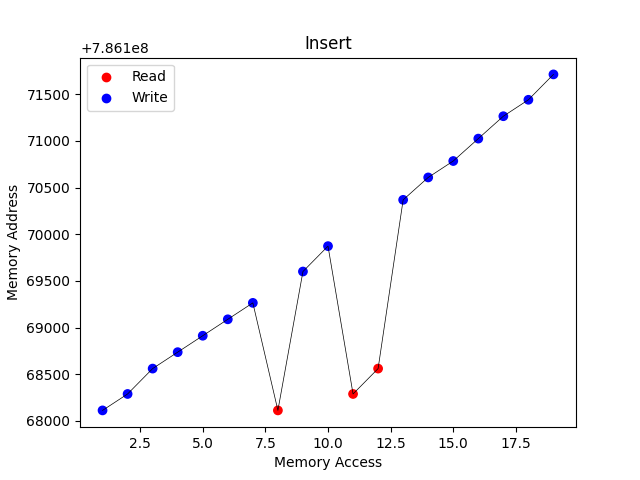
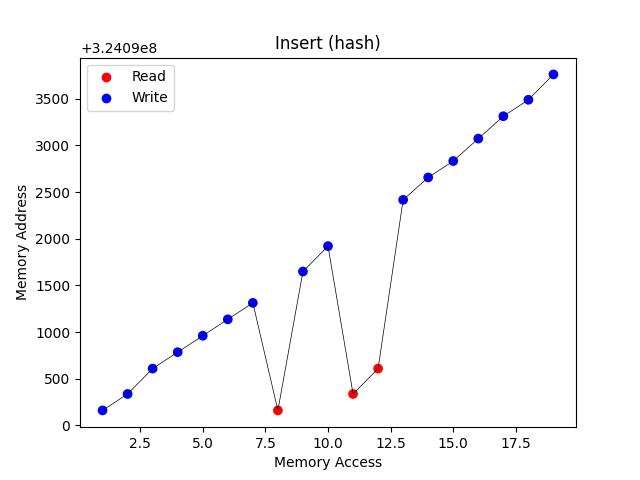
finished

diff --git a/p3/src/main.c b/p3/src/main.c
@@ -3,6 +3,8 @@
 #include "hash-table.h"
 #include "memory-log.h"
 #include "parser.h"
+#include "usage.h"
+#include <stdio.h>
 #include <stdlib.h>
 #include <string.h>
 
@@ -43,6 +45,14 @@ int main(int argc, char **argv) {
     error_assert((params.mem_file_name != NULL), "Missing log file.");
     init_memory_log(params.mem_file_name);
     set_next_log_phase();
+  }
+
+  double start_time;
+
+  // process usage
+  if (params.use_proc_usage) {
+    struct rusage start_usage = set_usage();
+    start_time = get_proc_time(&start_usage);
   }
 
   if (strcmp(params.struct_name, "tree") == 0) {
@@ -181,6 +191,24 @@ int main(int argc, char **argv) {
 
   closed = fclose(output_file);
   error_assert((closed == 0), "Failed to close the output file");
+
+  // process usage
+  if (params.use_proc_usage) {
+    error_assert((params.usage_file_name != NULL), "Missing usage file.");
+
+    struct rusage end_usage = set_usage();
+    double end_time = get_proc_time(&end_usage);
+
+    double total_time = end_time - start_time;
+
+    FILE *usage_file = fopen(params.usage_file_name, "a");
+    error_assert((usage_file != NULL), "Failed to open usage file");
+
+    fprintf(usage_file, "%f\n", total_time);
+
+    closed = fclose(usage_file);
+    error_assert((closed == 0), "Failed to close the usge file");
+  }
 
   return 0;
 }

diff --git a/p3/usage-plot.py b/p3/usage-plot.py
@@ -1,0 +1,53 @@
+import os
+import sys
+import matplotlib.pyplot as plt
+
+# AUX FUNCTIONS #############################
+
+
+def plot_bars(x, ys):
+    colors = ["red", "green"]
+    file_name = os.path.join(os.getcwd(), "images/usage.png")
+    plt.bar(x, ys, width=0.5, color=colors)
+    plt.xlabel("Implementation")
+    plt.ylabel("Mean Time")
+    plt.title("Execution Time")
+    plt.savefig(file_name)
+    plt.clf()
+
+
+def read_file_and_plot(file_names):
+    x = ["tree", "hash"]
+    ys = []
+
+    for file_name in file_names:
+        mean = 0
+
+        with open(file_name, "r") as file:
+            lines = file.readlines()
+
+            for line in lines:
+                line = line.strip()
+
+                value = float(line)
+                mean += value
+
+            mean /= len(lines)
+            ys.append(mean)
+        file.close()
+
+    plot_bars(x, ys)
+
+
+# SCRIPT BODY #####################################
+
+out_dir = os.path.join(os.getcwd(), "output")
+
+tree_file_name = os.path.join(out_dir, "usage-tree.txt")
+hash_file_name = os.path.join(out_dir, "usage-hash.txt")
+
+if not os.path.isfile(tree_file_name) or not os.path.isfile(hash_file_name):
+    print("Missing output file")
+    sys.exit(1)
+
+read_file_and_plot([tree_file_name, hash_file_name])

diff --git a/p3/src/parser.c b/p3/src/parser.c
@@ -12,10 +12,12 @@ Params parse_arguments(int argc, char **argv) {
   p.output_file_name = NULL;
   p.struct_name = NULL;
   p.mem_file_name = NULL;
+  p.usage_file_name = NULL;
   p.input_size = 0;
   p.use_logger = 0;
+  p.use_proc_usage = 0;
 
-  while ((opt = getopt(argc, argv, "i:o:t:s:m:l")) != -1) {
+  while ((opt = getopt(argc, argv, "i:o:t:s:m:u:lp")) != -1) {
     switch (opt) {
     case 'i':
       p.input_file_name = optarg;
@@ -36,8 +38,16 @@ Params parse_arguments(int argc, char **argv) {
         p.mem_file_name = optarg;
       }
       break;
+    case 'u':
+      if (optarg) {
+        p.usage_file_name = optarg;
+      }
+      break;
     case 'l':
       p.use_logger = 1;
+      break;
+    case 'p':
+      p.use_proc_usage = 1;
       break;
     default:
       break;

diff --git a/p3/src/usage.c b/p3/src/usage.c
@@ -1,0 +1,21 @@
+#include "usage.h"
+#include "error-assert.h"
+
+struct rusage set_usage() {
+  struct rusage usage;
+  int rc;
+
+  rc = getrusage(RUSAGE_SELF, &usage);
+  error_assert((rc == 0), "getrusage failed.");
+
+  return usage;
+}
+
+double get_proc_time(const struct rusage *usage) {
+  double stime = (double)usage->ru_stime.tv_sec;
+  double stimeu = (double)usage->ru_stime.tv_usec / 1e6;
+  double utime = (double)usage->ru_utime.tv_sec;
+  double utimeu = (double)usage->ru_utime.tv_usec / 1e6;
+
+  return (utime + utimeu + stime + stimeu);
+}

diff --git a/p3/mem-plot.py b/p3/mem-plot.py
@@ -27,7 +27,7 @@ def plot_graphs(xs, ys, ts, name):
         colors = ["red" if t == "R" else "blue" if t == "W" else "green" for t in ts[i]]
         plt.scatter(xs[i], ys[i], c=colors)
         plt.plot(xs[i], ys[i], color="black", linewidth=0.5)
-        plt.title(phases[i])
+        plt.title(phases[i] + " (" + name + ")")
         plt.xlabel("Memory Access")
         plt.ylabel("Memory Address")
         plt.scatter([], [], c="red", label="Read")

diff --git a/p3/include/parser.h b/p3/include/parser.h
@@ -7,8 +7,10 @@ typedef struct {
   char *output_file_name;
   char *struct_name;
   char *mem_file_name;
+  char *usage_file_name;
   int input_size;
   int use_logger;
+  int use_proc_usage;
 } Params;
 
 Params parse_arguments(int argc, char **argv);

diff --git a/p3/include/usage.h b/p3/include/usage.h
@@ -1,0 +1,9 @@
+#ifndef USAGE_H
+#define USAGE_H
+
+#include <sys/resource.h>
+
+struct rusage set_usage();
+double get_proc_time(const struct rusage *usage);
+
+#endif

diff --git a/p3/README.md b/p3/README.md
@@ -56,15 +56,45 @@ cost O(1). The hash table is not naturaly ordered. All the elements must be copi
 complexity is limited by the quick sort complexity both for normal and worst cases.
 
 ## Memory Access
+ With the output files of the execution it's possible to plot the following graphs:
 
 <p align="center">
     <img src="assets/tree-1.png" alt="tree 1" width="45%"/>
     <img src="assets/hash-1.png" alt="hash 1" width="45%"/>
 </p>
+<p align="center">
+    <img src="assets/tree-2.png" alt="tree 2" width="45%"/>
+    <img src="assets/hash-2.png" alt="hash 2" width="45%"/>
+</p>
+<p align="center">
+    <img src="assets/tree-3.png" alt="tree 3" width="45%"/>
+    <img src="assets/hash-3.png" alt="hash 3" width="45%"/>
+</p>
+
+It's possible to see that the hash table is better in terms of memory access as it's almost linear 
+if the collisions are not considered. The tree does a lot more jumps when the balance function is called.
+Both structures needs to go to a far address when an already inserted word appears.
+
+The tree shows a better printing function. When sorted the hash list shows a similar behavior other than the 
+extra cost to copy the original list.
+
+The hash is better at the deletion function as the tree spend an access to copy the value from one
+node to another in the case of delete node have 2 child.
+
 
 ## Process Usage
 
+The following graph shows the comparison between the proccess usage time. The values shown are 
+mean of 6 executions.
+
+[![Process Time](./assets/usage.png)
+
+The tree implementation was a little bit more faster.
+
 ## Conlusion
+Both implementations are adequate for this propsed task. In the situation that the order of the
+elements is important, the tree is better. But the constant balancing of the tree is offten worse 
+than the possible collisions in the hash table, so it depends on the input format.
 
 ## How To Execute
 
